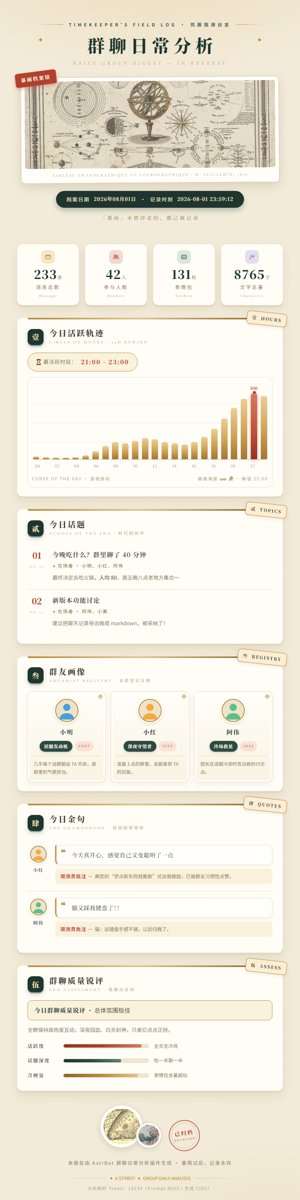
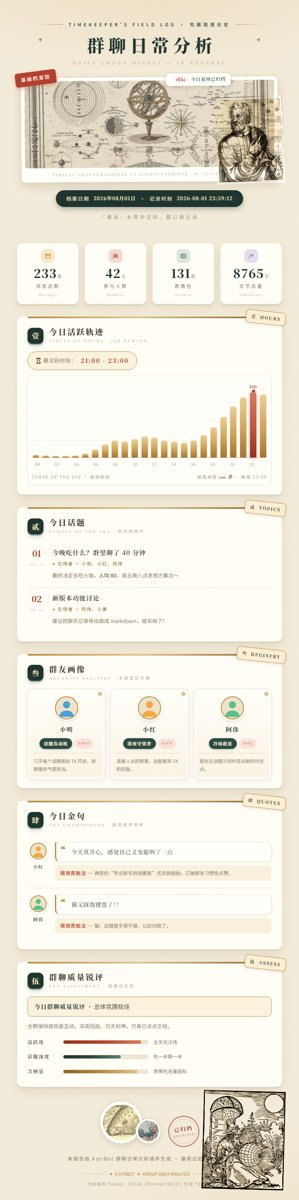
feat(gda_reverse_1999): 引入主角人物——照搬 ATRI/BA 的人物用法
- 头图「司辰」：1584 持浑天仪天文学家版画（LOC，PD）贴在古图右缘
  + 纯 CSS 对话气泡「司辰：今日星图已归档」，multiply 直接印在羊皮纸卡上
- 页脚探底大立绘：丢勒《天文学家》木刻（PD）右下角 bottom 探出页边
- 群友卡支持 title.profile_image 右下角 12% 淡印（与 BlueArchive 同款）
- 统一 filter 灰度+sepia+对比度使版画融入米白纸底
- README 补充人物来源与用法说明

diff --git a/gda_reverse_1999/image_template.html b/gda_reverse_1999/image_template.html
@@ -186,6 +186,52 @@
             color: var(--ink-faint);
         }
 
+        /* 人物：1584 持浑天仪的天文学家版画（LOC，PD）—— multiply 直接印在纸上 */
+        .hero-character {
+            position: absolute;
+            right: -14px;
+            bottom: -6px;
+            width: 172px;
+            z-index: 3;
+            pointer-events: none;
+            mix-blend-mode: multiply;
+            filter: grayscale(1) sepia(0.45) contrast(1.22) brightness(1.1);
+            transform: rotate(-1.5deg);
+        }
+
+        .hero-bubble {
+            position: absolute;
+            right: 116px;
+            top: -10px;
+            background: #fffefa;
+            border: 1px solid var(--line-strong);
+            border-radius: 10px;
+            padding: 7px 13px;
+            font-family: var(--font-title);
+            font-size: 11.5px;
+            font-weight: 700;
+            color: var(--green-deep);
+            letter-spacing: 1px;
+            line-height: 1.55;
+            white-space: nowrap;
+            box-shadow: 0 4px 10px rgba(93, 74, 40, 0.14);
+            z-index: 4;
+        }
+
+        .hero-bubble::after {
+            content: "";
+            position: absolute;
+            right: -9px;
+            top: 16px;
+            border-top: 6px solid transparent;
+            border-bottom: 6px solid transparent;
+            border-left: 9px solid var(--line-strong);
+        }
+
+        .hero-bubble b {
+            color: var(--rust);
+        }
+
         /* 贴纸角标 */
         .sticker {
             position: absolute;
@@ -704,6 +750,19 @@
             padding-top: 9px;
         }
 
+        /* 群友个人立绘淡印（插件注入 profile_image 时显示，BA 同款手法） */
+        .t-profile {
+            position: absolute;
+            right: 8px;
+            bottom: 8px;
+            width: 38%;
+            max-height: 80%;
+            object-fit: contain;
+            opacity: 0.12;
+            pointer-events: none;
+            z-index: 1;
+        }
+
         /* ============ 金句 ============ */
         .quote-wrapper {
             padding: 16px 0 18px;
@@ -988,6 +1047,25 @@
         .footer-orn::after {
             background: linear-gradient(90deg, var(--line-strong), transparent);
         }
+
+        /* 页脚人物：丢勒《天文学家》木刻（PD）—— 右下角探底 */
+        .footer .deco-char {
+            position: absolute;
+            right: -8px;
+            bottom: -6px;
+            width: 210px;
+            z-index: 0;
+            pointer-events: none;
+            mix-blend-mode: multiply;
+            filter: grayscale(1) sepia(0.5) contrast(1.1) brightness(1.08);
+            transform: rotate(1.5deg);
+        }
+
+        .footer .deco-char img {
+            display: block;
+            width: 100%;
+            height: auto;
+        }
     </style>
 </head>
 
@@ -1002,7 +1080,9 @@
             <!-- 主视觉：1852 宇宙志古图 -->
             <div class="hero-art avoid-break">
                 <div class="sticker">暴雨档案馆</div>
+                <div class="hero-bubble">「<b>司辰</b>」今日星图已归档</div>
                 <div class="art-frame"></div>
+                <img class="hero-character" src="https://upload.wikimedia.org/wikipedia/commons/thumb/2/24/Astronomer_holding_instrument_LCCN2006691905.jpg/960px-Astronomer_holding_instrument_LCCN2006691905.jpg" alt="持浑天仪的天文学家">
                 <div class="art-caption">TABLEAU URANOGRAPHIQUE ET COSMOGRAPHIQUE · M. VUILLEMIN, 1852</div>
             </div>
 
@@ -1086,6 +1166,7 @@
 
         <!-- 页脚 -->
         <div class="footer">
+            <div class="deco-char avoid-break"><img src="https://upload.wikimedia.org/wikipedia/commons/3/3b/Durer_astronomer.jpg" alt="丢勒·天文学家"></div>
             <div class="footer-art avoid-break"><div class="art-disc"></div></div><div class="footer-art2 avoid-break"><div class="art-disc2"></div></div><div class="seal">已归档<span>ARCHIVED</span></div>
             <div class="footer-line">本报告由 AstrBot 群聊日常分析插件生成 · 暴雨过后，记录永存</div>
             <div class="footer-orn">✦ &nbsp;A STRBOT &nbsp;✦&nbsp; GROUP DAILY ANALYSIS</div>

diff --git a/gda_reverse_1999/html_template.html b/gda_reverse_1999/html_template.html
@@ -185,6 +185,52 @@
             color: var(--ink-faint);
         }
 
+        /* 人物：1584 持浑天仪的天文学家版画（LOC，PD）—— multiply 直接印在纸上 */
+        .hero-character {
+            position: absolute;
+            right: -14px;
+            bottom: -6px;
+            width: 190px;
+            z-index: 3;
+            pointer-events: none;
+            mix-blend-mode: multiply;
+            filter: grayscale(1) sepia(0.45) contrast(1.22) brightness(1.1);
+            transform: rotate(-1.5deg);
+        }
+
+        .hero-bubble {
+            position: absolute;
+            right: 128px;
+            top: -10px;
+            background: #fffefa;
+            border: 1px solid var(--line-strong);
+            border-radius: 10px;
+            padding: 7px 13px;
+            font-family: var(--font-title);
+            font-size: 11.5px;
+            font-weight: 700;
+            color: var(--green-deep);
+            letter-spacing: 1px;
+            line-height: 1.55;
+            white-space: nowrap;
+            box-shadow: 0 4px 10px rgba(93, 74, 40, 0.14);
+            z-index: 4;
+        }
+
+        .hero-bubble::after {
+            content: "";
+            position: absolute;
+            right: -9px;
+            top: 16px;
+            border-top: 6px solid transparent;
+            border-bottom: 6px solid transparent;
+            border-left: 9px solid var(--line-strong);
+        }
+
+        .hero-bubble b {
+            color: var(--rust);
+        }
+
         /* 贴纸角标 */
         .sticker {
             position: absolute;
@@ -698,6 +744,19 @@
             padding-top: 9px;
         }
 
+        /* 群友个人立绘淡印（插件注入 profile_image 时显示，BA 同款手法） */
+        .t-profile {
+            position: absolute;
+            right: 8px;
+            bottom: 8px;
+            width: 38%;
+            max-height: 80%;
+            object-fit: contain;
+            opacity: 0.12;
+            pointer-events: none;
+            z-index: 1;
+        }
+
         /* ============ 金句 ============ */
         .quote-wrapper {
             padding: 16px 0 18px;
@@ -988,6 +1047,25 @@
             background: linear-gradient(90deg, var(--line-strong), transparent);
         }
 
+        /* 页脚人物：丢勒《天文学家》木刻（PD）—— 右下角探底 */
+        .footer .deco-char {
+            position: absolute;
+            right: -10px;
+            bottom: -8px;
+            width: 236px;
+            z-index: 0;
+            pointer-events: none;
+            mix-blend-mode: multiply;
+            filter: grayscale(1) sepia(0.5) contrast(1.1) brightness(1.08);
+            transform: rotate(1.5deg);
+        }
+
+        .footer .deco-char img {
+            display: block;
+            width: 100%;
+            height: auto;
+        }
+
         /* ============ 响应式 ============ */
         @media (max-width: 760px) {
             .page {
@@ -1066,7 +1144,9 @@
             <!-- 主视觉：1852 宇宙志古图 -->
             <div class="hero-art avoid-break">
                 <div class="sticker">暴雨档案馆</div>
+                <div class="hero-bubble">「<b>司辰</b>」今日星图已归档</div>
                 <div class="art-frame"></div>
+                <img class="hero-character" src="https://upload.wikimedia.org/wikipedia/commons/thumb/2/24/Astronomer_holding_instrument_LCCN2006691905.jpg/960px-Astronomer_holding_instrument_LCCN2006691905.jpg" alt="持浑天仪的天文学家">
                 <div class="art-caption">TABLEAU URANOGRAPHIQUE ET COSMOGRAPHIQUE · M. VUILLEMIN, 1852</div>
             </div>
 
@@ -1150,6 +1230,7 @@
 
         <!-- 页脚 -->
         <div class="footer">
+            <div class="deco-char avoid-break"><img src="https://upload.wikimedia.org/wikipedia/commons/3/3b/Durer_astronomer.jpg" alt="丢勒·天文学家"></div>
             <div class="footer-badges avoid-break">
                 <div class="footer-art"><div class="art-disc"></div></div>
                 <div class="footer-art2"><div class="art-disc2"></div></div>

diff --git a/gda_reverse_1999/user_title_item.html b/gda_reverse_1999/user_title_item.html
@@ -23,6 +23,9 @@
             {% endif %}
         </div>
         <div class="t-reason">{{ title.reason }}</div>
+        {% if title.get('profile_image') %}
+        <img src="{{ title.get('profile_image') }}" alt="" class="t-profile">
+        {% endif %}
     </div>
     {% endfor %}
 </div>

diff --git a/generate_preview.py b/generate_preview.py
@@ -164,6 +164,11 @@ _ART_URLS = {
     ("https://upload.wikimedia.org/wikipedia/commons/thumb/8/84/Johan_Doppelmayr%27s_celestial_chart_of_Pavo_and_Indus_"
      "%28cropped%29.jpg/1280px-Johan_Doppelmayr%27s_celestial_chart_of_Pavo_and_Indus_%28cropped%29.jpg"):
         _ART_DIR / "Doppelmayr-Pavo-1280px.jpg",
+    ("https://upload.wikimedia.org/wikipedia/commons/thumb/2/24/"
+     "Astronomer_holding_instrument_LCCN2006691905.jpg/960px-Astronomer_holding_instrument_LCCN2006691905.jpg"):
+        _ART_DIR / "Astronomer-1584-960px.jpg",
+    "https://upload.wikimedia.org/wikipedia/commons/3/3b/Durer_astronomer.jpg":
+        _ART_DIR / "Durer-Astronomer.jpg",
 }
 for url, local in _ART_URLS.items():
     if local.is_file() and url in preview_html:

diff --git a/README.md b/README.md
@@ -162,6 +162,16 @@ python generate_preview.py [模板名]     # 缺省为 gda_reverse_1999
   `https://upload.wikimedia.org/wikipedia/commons/thumb/d/dd/FlammarionWoodcut.jpg/1280px-FlammarionWoodcut.jpg`
 - **Doppelmayr 1730 孔雀座星图**（PD）—— 页脚第二枚小纪念章（`footer-art2`）：
   `https://upload.wikimedia.org/wikipedia/commons/thumb/8/84/Johan_Doppelmayr%27s_celestial_chart_of_Pavo_and_Indus_%28cropped%29.jpg/1280px-Johan_Doppelmayr%27s_celestial_chart_of_Pavo_and_Indus_%28cropped%29.jpg`
+- **持浑天仪的天文学家**（1584 版画，美国国会图书馆藏，PD）—— 头图主角「司辰」：
+  贴在镶框古图右缘、配对话气泡（`hero-character` / `hero-bubble`）：
+  `https://upload.wikimedia.org/wikipedia/commons/thumb/2/24/Astronomer_holding_instrument_LCCN2006691905.jpg/960px-Astronomer_holding_instrument_LCCN2006691905.jpg`
+- **丢勒《天文学家》木刻**（Albrecht Dürer，PD）—— 页脚右下角探底大立绘（`deco-char`）：
+  `https://upload.wikimedia.org/wikipedia/commons/3/3b/Durer_astronomer.jpg`
+
+**人物用法**（对齐内置 ATRI / BlueArchive 模板的手法）：主角立绘以 `mix-blend-mode: multiply`
+直接「印」在羊皮纸卡上（版画白底与纸底融合，无需抠图），配 `filter: grayscale+sepia` 统一色调；
+对话气泡用纯 CSS 小尾巴指向人物；页脚人物绝对定位右下、底部探出页边（`bottom: -6px`）；
+群友卡可选 `title.profile_image`（插件注入）做右下角 12% 透明淡印（`.t-profile`）。
 
 三张图在模板里通过 `background-image` 引用（失败时优雅降级、不破坏版面）。
 `assets/<模板名>/art/` 下保存了本地副本：`generate_preview.py` 渲染预览图时会把直链
